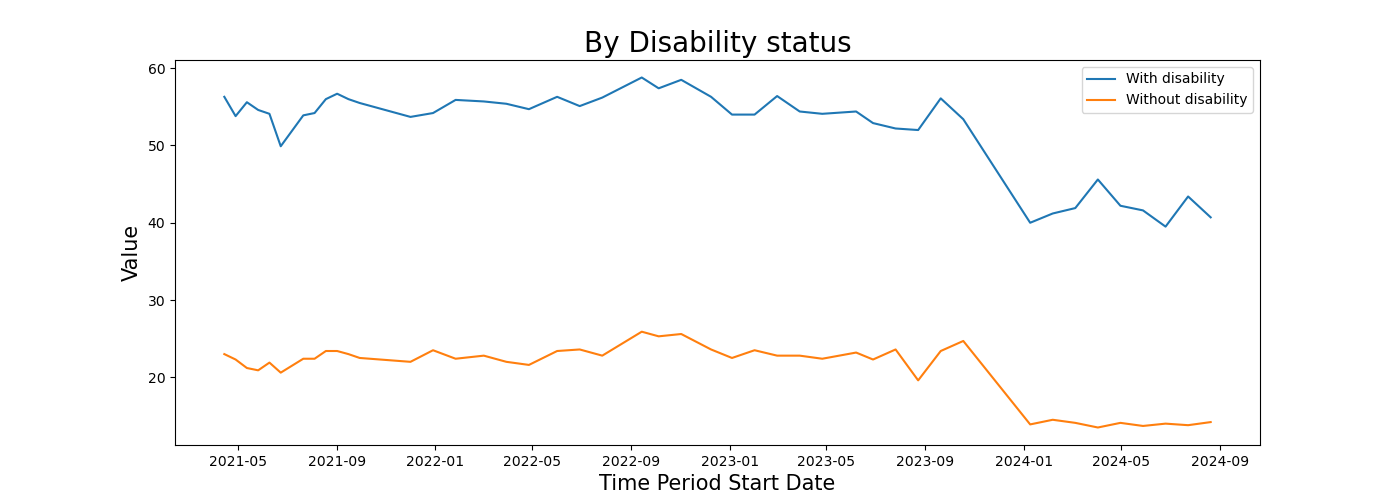
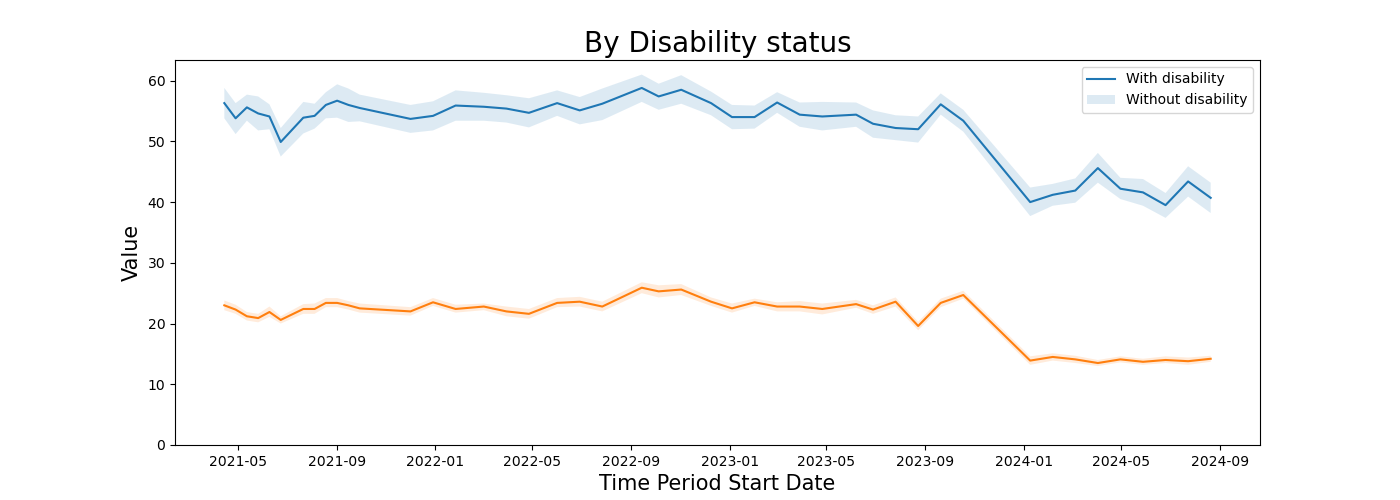
Graph confidence intervals

diff --git a/src/analysis.py b/src/analysis.py
@@ -28,9 +28,12 @@ def graph_anxiety_trends(df: pd.DataFrame, group: str) -> Figure:
         subgroup_df = df.loc[df["Subgroup"] == subgroup]
         subgroup_df = subgroup_df.set_index("Time Period Start Date")
         ax.plot(subgroup_df.index, subgroup_df["Value"])
+        ax.fill_between(subgroup_df.index, subgroup_df["Low CI"], subgroup_df["High CI"],
+                        alpha=0.15)
 
     ax.legend(subgroups)
     plt.title(group, fontsize=20)
     plt.xlabel("Time Period Start Date", fontsize=15)
     plt.ylabel("Value", fontsize=15)
+    ax.set_ylim(ymin=0)
     return fig
